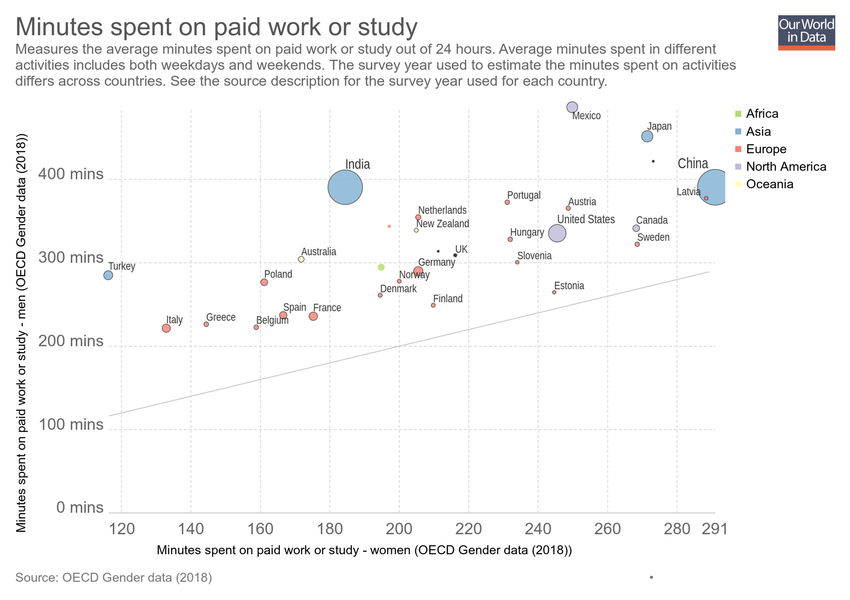
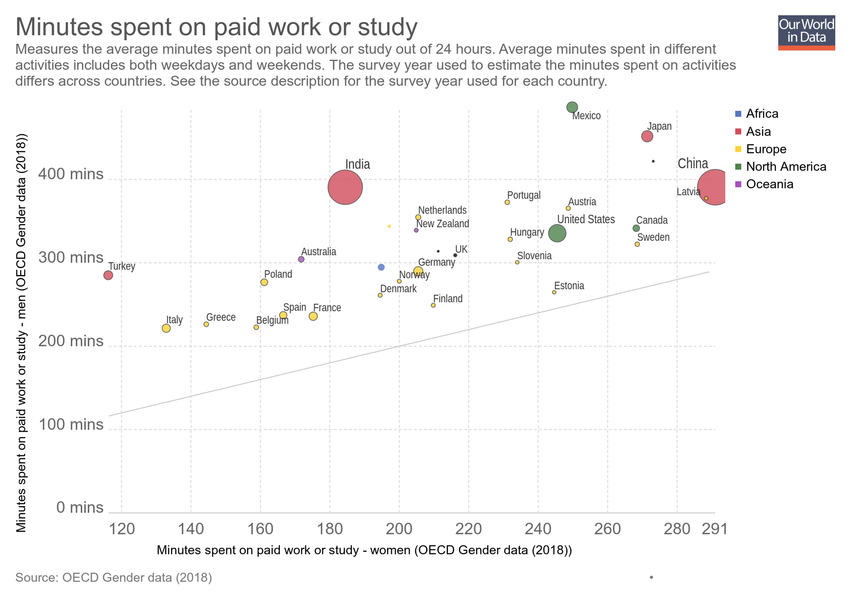
Updating chart minutes-spent-on-paid-work-or-study

diff --git a/grapher/minutes-spent-on-paid-work-or-study.html b/grapher/minutes-spent-on-paid-work-or-study.html
@@ -1,4 +1,4 @@
-<!doctype html><html><head><meta name="viewport" content="width=device-width, initial-scale=1" /><title>Minutes spent on paid work or study - Our World in Data</title><meta name="description" content="Measures the average minutes spent on paid work or study out of 24 hours. Average minutes spent in different activities includes both weekdays and weekends. The survey year used to estimate the minutes spent on activities differs across countries. See the source description for the survey year used for each country." /><link rel="canonical" href="https://ourworldindata.org/grapher/minutes-spent-on-paid-work-or-study" /><meta property="fb:app_id" content="1149943818390250" /><meta property="og:url" content="https://ourworldindata.org/grapher/minutes-spent-on-paid-work-or-study" /><meta property="og:title" content="Minutes spent on paid work or study" /><meta property="og:description" content="Measures the average minutes spent on paid work or study out of 24 hours. Average minutes spent in different activities includes both weekdays and weekends. The survey year used to estimate the minutes spent on activities differs across countries. See the source description for the survey year used for each country." /><meta property="og:image" content="https://ourworldindata.org/grapher/exports/minutes-spent-on-paid-work-or-study.png?v=8" /><meta property="og:image:width" content="850" /><meta property="og:image:height" content="600" /><meta property="og:site_name" content="Our World in Data" /><meta name="twitter:card" content="summary_large_image" /><meta name="twitter:site" content="@OurWorldInData" /><meta name="twitter:creator" content="@OurWorldInData" /><meta name="twitter:title" content="Minutes spent on paid work or study" /><meta name="twitter:description" content="Measures the average minutes spent on paid work or study out of 24 hours. Average minutes spent in different activities includes both weekdays and weekends. The survey year used to estimate the minutes spent on activities differs across countries. See the source description for the survey year used for each country." /><meta name="twitter:image" content="https://ourworldindata.org/grapher/exports/minutes-spent-on-paid-work-or-study.png?v=8" /><style>
+<!doctype html><html><head><meta name="viewport" content="width=device-width, initial-scale=1" /><title>Minutes spent on paid work or study - Our World in Data</title><meta name="description" content="Measures the average minutes spent on paid work or study out of 24 hours. Average minutes spent in different activities includes both weekdays and weekends. The survey year used to estimate the minutes spent on activities differs across countries. See the source description for the survey year used for each country." /><link rel="canonical" href="https://ourworldindata.org/grapher/minutes-spent-on-paid-work-or-study" /><meta property="fb:app_id" content="1149943818390250" /><meta property="og:url" content="https://ourworldindata.org/grapher/minutes-spent-on-paid-work-or-study" /><meta property="og:title" content="Minutes spent on paid work or study" /><meta property="og:description" content="Measures the average minutes spent on paid work or study out of 24 hours. Average minutes spent in different activities includes both weekdays and weekends. The survey year used to estimate the minutes spent on activities differs across countries. See the source description for the survey year used for each country." /><meta property="og:image" content="https://ourworldindata.org/grapher/exports/minutes-spent-on-paid-work-or-study.png?v=9" /><meta property="og:image:width" content="850" /><meta property="og:image:height" content="600" /><meta property="og:site_name" content="Our World in Data" /><meta name="twitter:card" content="summary_large_image" /><meta name="twitter:site" content="@OurWorldInData" /><meta name="twitter:creator" content="@OurWorldInData" /><meta name="twitter:title" content="Minutes spent on paid work or study" /><meta name="twitter:description" content="Measures the average minutes spent on paid work or study out of 24 hours. Average minutes spent in different activities includes both weekdays and weekends. The survey year used to estimate the minutes spent on activities differs across countries. See the source description for the survey year used for each country." /><meta name="twitter:image" content="https://ourworldindata.org/grapher/exports/minutes-spent-on-paid-work-or-study.png?v=9" /><style>
         html, body {
             height: 100%;
             margin: 0;
@@ -20,8 +20,8 @@
         }
     </style><noscript><style>
                     figure { display: none !important; }
-                </style></noscript><link rel="stylesheet" href="https://ourworldindata.org/grapher/assets/commons.bundle.019a92548339820130b6.css" /><link rel="preload" href="/grapher/data/variables/96612+96617+72+123.json?v=8" as="fetch" crossorigin /></head><body class="singleChart"><figure data-grapher-src="/grapher/minutes-spent-on-paid-work-or-study"></figure><noscript id="fallback"><img src="/grapher/exports/minutes-spent-on-paid-work-or-study.svg" /><p>Interactive visualization requires JavaScript</p></noscript><script src="https://cdn.polyfill.io/v2/polyfill.min.js?features=es6,fetch"></script><script src="https://ourworldindata.org/grapher/assets/commons.bundle.019a92548339820130b6.js"></script><script src="https://ourworldindata.org/grapher/assets/charts.bundle.dcf65b68eddaba4c6a58.js"></script><script>
-        var jsonConfig = {"id":2538,"map":{"projection":"World","colorSchemeLabels":[],"colorSchemeValues":[],"colorSchemeMinValue":0,"customNumericColors":[],"customCategoryColors":{},"customCategoryLabels":{},"customHiddenCategories":{}},"tab":"chart","slug":"minutes-spent-on-paid-work-or-study","type":"ScatterPlot","title":"Minutes spent on paid work or study","xAxis":{"scaleType":"linear"},"yAxis":{"min":0,"scaleType":"linear"},"version":8,"subtitle":"Measures the average minutes spent on paid work or study out of 24 hours. Average minutes spent in different activities includes both weekdays and weekends. The survey year used to estimate the minutes spent on activities differs across countries. See the source description for the survey year used for each country.","hasMapTab":false,"stackMode":"absolute","dimensions":[{"display":{"unit":"minutes","shortUnit":"mins"},"property":"y","variableId":96612},{"display":{"unit":"minutes","shortUnit":""},"property":"x","variableId":96617},{"display":{},"property":"size","variableId":72},{"display":{},"property":"color","variableId":123}],"hasChartTab":true,"isPublished":true,"selectedData":[],"addCountryMode":"change-country","comparisonLine":{},"baseColorScheme":"Set3","invertColorScheme":true,"hideTitleAnnotation":true};
+                </style></noscript><link rel="stylesheet" href="https://ourworldindata.org/grapher/assets/commons.bundle.019a92548339820130b6.css" /><link rel="preload" href="/grapher/data/variables/96612+96617+72+123.json?v=9" as="fetch" crossorigin /></head><body class="singleChart"><figure data-grapher-src="/grapher/minutes-spent-on-paid-work-or-study"></figure><noscript id="fallback"><img src="/grapher/exports/minutes-spent-on-paid-work-or-study.svg" /><p>Interactive visualization requires JavaScript</p></noscript><script src="https://cdn.polyfill.io/v2/polyfill.min.js?features=es6,fetch"></script><script src="https://ourworldindata.org/grapher/assets/commons.bundle.019a92548339820130b6.js"></script><script src="https://ourworldindata.org/grapher/assets/charts.bundle.dcf65b68eddaba4c6a58.js"></script><script>
+        var jsonConfig = {"id":2538,"map":{"projection":"World","colorSchemeLabels":[],"colorSchemeValues":[],"colorSchemeMinValue":0,"customNumericColors":[],"customCategoryColors":{},"customCategoryLabels":{},"customHiddenCategories":{}},"tab":"chart","slug":"minutes-spent-on-paid-work-or-study","type":"ScatterPlot","title":"Minutes spent on paid work or study","xAxis":{"scaleType":"linear"},"yAxis":{"min":0,"scaleType":"linear"},"version":9,"subtitle":"Measures the average minutes spent on paid work or study out of 24 hours. Average minutes spent in different activities includes both weekdays and weekends. The survey year used to estimate the minutes spent on activities differs across countries. See the source description for the survey year used for each country.","hasMapTab":false,"stackMode":"absolute","dimensions":[{"display":{"unit":"minutes","shortUnit":"mins"},"property":"y","variableId":96612},{"display":{"unit":"minutes","shortUnit":""},"property":"x","variableId":96617},{"display":{},"property":"size","variableId":72},{"display":{},"property":"color","variableId":123}],"hasChartTab":true,"isPublished":true,"selectedData":[],"addCountryMode":"change-country","comparisonLine":{},"hideTitleAnnotation":true};
         var figure = document.getElementsByTagName("figure")[0];
         try {
             window.App = {};
